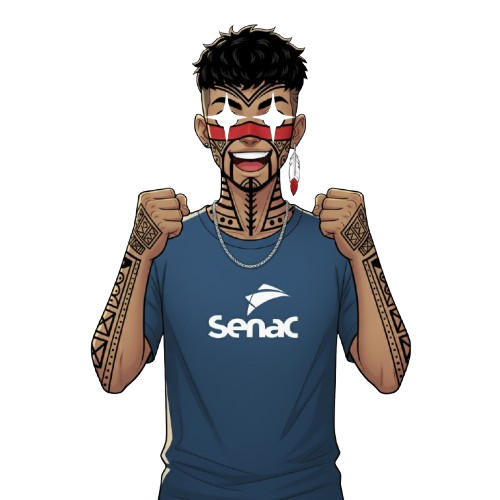
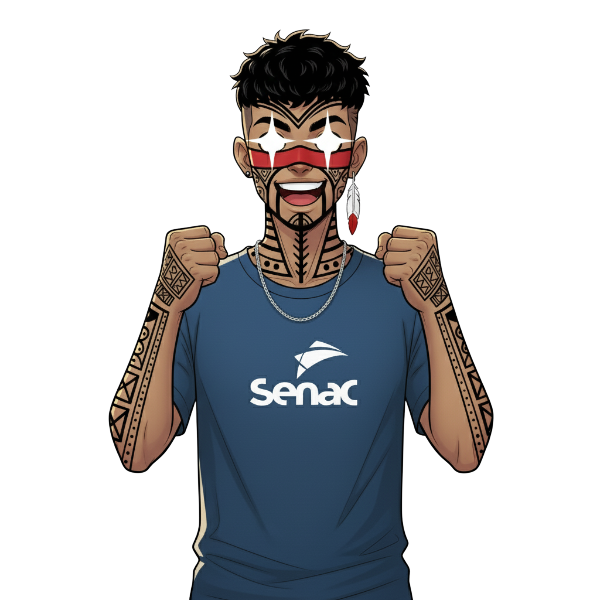
nova adição na landpage

diff --git a/src/styles/landpage.css b/src/styles/landpage.css
@@ -362,6 +362,7 @@
   text-align: center;
   position: relative;
   padding-bottom: 400px; /* space for img */
+  overflow: hidden; /* to contain the slideshow */
 }
 
 .landpage-wrapper .gamificacao-card:hover {
@@ -369,30 +370,112 @@
   box-shadow: 0 15px 50px rgba(0, 0, 0, 0.15);
 }
 
-.landpage-wrapper .gamificacao-icon {
-  width: 80px;
-  height: 80px;
-  background: linear-gradient(135deg, var(--landpage-blue) 0%, var(--landpage-yellow) 100%);
-  border-radius: 50%;
-  margin: 0 auto 20px;
-  display: flex;
-  align-items: center;
-  justify-content: center;
-  font-size: 32px;
+.landpage-wrapper .gamificacao-avatar-slideshow {
+  position: absolute;
+  top: 0;
+  left: 0;
+  width: 100%;
+  height: 100%;
+  z-index: 1;
+  border-radius: 16px;
+}
+
+.landpage-wrapper .gamificacao-avatar-slide {
+  position: absolute;
+  top: 0;
+  left: 0;
+  width: 100%;
+  height: 100%;
+  object-fit: cover;
+  border-radius: 16px;
+  opacity: 0;
+  transition: opacity 1s ease-in-out;
+}
+
+.landpage-wrapper .gamificacao-avatar-slide.active {
+  opacity: 1;
+}
+
+.landpage-wrapper .gamificacao-quiz-slideshow {
+  position: absolute;
+  top: 0;
+  left: 0;
+  width: 100%;
+  height: 100%;
+  z-index: 1;
+  border-radius: 16px;
+}
+
+.landpage-wrapper .gamificacao-quiz-slide {
+  position: absolute;
+  top: 0;
+  left: 0;
+  width: 100%;
+  height: 100%;
+  object-fit: contain;
+  border-radius: 16px;
+  opacity: 0;
+  transition: opacity 1s ease-in-out;
+}
+
+.landpage-wrapper .gamificacao-quiz-slide.active {
+  opacity: 1;
+}
+
+/* Comunidade Slideshow */
+.landpage-wrapper .gamificacao-comunidade-slideshow {
+  position: absolute;
+  top: 0;
+  left: 0;
+  width: 100%;
+  height: 100%;
+  z-index: 1;
+  border-radius: 16px;
+  overflow: hidden;
+}
+
+.landpage-wrapper .gamificacao-comunidade-slide {
+  position: absolute;
+  top: 0;
+  left: 0;
+  width: 100%;
+  height: 100%;
+  object-fit: contain;
+  opacity: 0;
+  transition: opacity 0.5s ease-in-out;
+  border-radius: 16px;
+}
+
+.landpage-wrapper .gamificacao-comunidade-slide.active {
+  opacity: 1;
+}
+
+.landpage-wrapper .gamificacao-card h3,
+.landpage-wrapper .gamificacao-card p {
+  position: relative;
+  z-index: 2;
   color: white;
+  text-shadow: 0 2px 4px rgba(0, 0, 0, 0.7);
 }
 
 .landpage-wrapper .gamificacao-card h3 {
   font-size: 24px;
   font-weight: 700;
   margin-bottom: 15px;
-  color: var(--landpage-text-dark);
+  background: rgba(0, 0, 0, 0.5);
+  padding: 10px 15px;
+  border-radius: 8px;
+  display: inline-block;
 }
 
 .landpage-wrapper .gamificacao-card p {
   font-size: 16px;
   line-height: 1.6;
-  color: var(--landpage-text-light);
+  background: rgba(0, 0, 0, 0.4);
+  padding: 15px;
+  border-radius: 8px;
+  display: inline-block;
+  margin-bottom: 20px;
 }
 
 .landpage-wrapper .gamificacao-character {
@@ -406,6 +489,7 @@
   border-radius: 12px;
   filter: drop-shadow(0 0 20px rgba(248, 180, 0, 0.5));
   transition: filter 0.3s ease;
+  z-index: 3;
 }
 
 .landpage-wrapper .gamificacao-character:hover {
@@ -554,20 +638,52 @@
   .landpage-wrapper .gamificacao-card {
     padding: 30px 20px 0;
     padding-bottom: 350px;
+    overflow: hidden;
   }
 
-  .landpage-wrapper .gamificacao-character {
-    max-width: 1000px;
+  .landpage-wrapper .gamificacao-avatar-slideshow {
+    position: absolute;
+    top: 0;
+    left: 0;
+    width: 100%;
+    height: 100%;
+    z-index: 1;
+    border-radius: 16px;
   }
 
-  .landpage-wrapper .gamificacao-icon {
-    width: 60px;
-    height: 60px;
-    font-size: 24px;
+  .landpage-wrapper .gamificacao-card h3,
+  .landpage-wrapper .gamificacao-card p {
+    position: relative;
+    z-index: 2;
+    color: white;
+    text-shadow: 0 2px 4px rgba(0, 0, 0, 0.7);
   }
 
   .landpage-wrapper .gamificacao-card h3 {
     font-size: 20px;
+    background: rgba(0, 0, 0, 0.5);
+    padding: 8px 12px;
+    border-radius: 6px;
+    display: inline-block;
+    margin-bottom: 10px;
+  }
+
+  .landpage-wrapper .gamificacao-card p {
+    font-size: 14px;
+    background: rgba(0, 0, 0, 0.4);
+    padding: 10px;
+    border-radius: 6px;
+    display: inline-block;
+  }
+
+  .landpage-wrapper .gamificacao-quiz-slideshow {
+    position: absolute;
+    top: 0;
+    left: 0;
+    width: 100%;
+    height: 100%;
+    z-index: 1;
+    border-radius: 16px;
   }
 
   .landpage-wrapper .gamificacao-cta {
@@ -644,20 +760,52 @@
   .landpage-wrapper .gamificacao-card {
     padding: 20px 15px 0;
     padding-bottom: 300px;
+    overflow: hidden;
   }
 
-  .landpage-wrapper .gamificacao-character {
-    max-width: 750px;
+  .landpage-wrapper .gamificacao-avatar-slideshow {
+    position: absolute;
+    top: 0;
+    left: 0;
+    width: 100%;
+    height: 100%;
+    z-index: 1;
+    border-radius: 16px;
   }
 
-  .landpage-wrapper .gamificacao-icon {
-    width: 50px;
-    height: 50px;
-    font-size: 20px;
+  .landpage-wrapper .gamificacao-card h3,
+  .landpage-wrapper .gamificacao-card p {
+    position: relative;
+    z-index: 2;
+    color: white;
+    text-shadow: 0 2px 4px rgba(0, 0, 0, 0.7);
   }
 
   .landpage-wrapper .gamificacao-card h3 {
     font-size: 18px;
+    background: rgba(0, 0, 0, 0.5);
+    padding: 6px 10px;
+    border-radius: 4px;
+    display: inline-block;
+    margin-bottom: 8px;
+  }
+
+  .landpage-wrapper .gamificacao-card p {
+    font-size: 12px;
+    background: rgba(0, 0, 0, 0.4);
+    padding: 8px;
+    border-radius: 4px;
+    display: inline-block;
+  }
+
+  .landpage-wrapper .gamificacao-quiz-slideshow {
+    position: absolute;
+    top: 0;
+    left: 0;
+    width: 100%;
+    height: 100%;
+    z-index: 1;
+    border-radius: 16px;
   }
 
   .landpage-wrapper .gamificacao-cta {
@@ -675,7 +823,8 @@
   }
 
   .landpage-wrapper .gamificacao-character {
-    max-width: 750px;
+    max-width: 1000px;
+    z-index: 3;
   }
 
   .landpage-wrapper .causa-rectangle {

diff --git a/src/pages/landpage.tsx b/src/pages/landpage.tsx
@@ -9,6 +9,9 @@ const Index: React.FC = () => {
   const [currentSlide, setCurrentSlide] = useState(0);
   const [modalOpen, setModalOpen] = useState<number | null>(null);
   const [currentUniversidadeImage, setCurrentUniversidadeImage] = useState(0);
+  const [currentAvatarImage, setCurrentAvatarImage] = useState(0);
+  const [currentQuizImage, setCurrentQuizImage] = useState(0);
+  const [currentComunidadeImage, setCurrentComunidadeImage] = useState(0);
 
   const slides = Array.from({ length: 9 }, (_, i) => i);
   const slideRefs = useRef<(HTMLDivElement | null)[]>([]);
@@ -36,6 +39,30 @@ const Index: React.FC = () => {
     }, 4000);
     return () => clearInterval(interval);
   }, [universidadeImages.length]);
+
+  // Autoplay avatar images
+  useEffect(() => {
+    const interval = setInterval(() => {
+      setCurrentAvatarImage(prev => (prev + 1) % 5); // 0 to 4
+    }, 3000);
+    return () => clearInterval(interval);
+  }, []);
+
+  // Autoplay quiz images
+  useEffect(() => {
+    const interval = setInterval(() => {
+      setCurrentQuizImage(prev => (prev + 1) % 3); // 0 to 2
+    }, 3000);
+    return () => clearInterval(interval);
+  }, []);
+
+  // Autoplay comunidade images
+  useEffect(() => {
+    const interval = setInterval(() => {
+      setCurrentComunidadeImage(prev => (prev + 1) % 4); // 0 to 3
+    }, 3000);
+    return () => clearInterval(interval);
+  }, []);
 
   // Text truncation
   useEffect(() => {
@@ -280,19 +307,58 @@ Empoderamento: Fortalecer identidades e estimular protagonismo individual e cole
             </p>
             <div className="gamificacao-grid">
               <div className="gamificacao-card">
-                <div className="gamificacao-icon"></div>
+                <div className="gamificacao-avatar-slideshow">
+                  {[0, 1, 2, 3, 4].map((index) => (
+                    <img
+                      key={index}
+                      src={`/landpage/gami/avatar_${index}.PNG`}
+                      alt={`Avatar ${index}`}
+                      className={`gamificacao-avatar-slide ${index === currentAvatarImage ? 'active' : ''}`}
+                      onError={(e) => {
+                        console.log(`Imagem não encontrada: /landpage/gami/avatar_${index}.PNG`);
+                        e.currentTarget.style.display = 'none';
+                      }}
+                    />
+                  ))}
+                </div>
                 <h3>Crie seu Avatar</h3>
                 <p>Crie seu Avatar na gamificação, do seu jeito da forma como você se enxerga!</p>
                 <img src="/landpage/characters/avatar.png" alt="Avatar" className="gamificacao-character" />
               </div>
               <div className="gamificacao-card">
-                <div className="gamificacao-icon"></div>
+                <div className="gamificacao-quiz-slideshow">
+                  {[0, 1, 2].map((index) => (
+                    <img
+                      key={index}
+                      src={`/landpage/gami/Quiz_${index}.PNG`}
+                      alt={`Quiz ${index}`}
+                      className={`gamificacao-quiz-slide ${index === currentQuizImage ? 'active' : ''}`}
+                      onError={(e) => {
+                        console.log(`Imagem não encontrada: /landpage/gami/Quiz_${index}.PNG`);
+                        e.currentTarget.style.display = 'none';
+                      }}
+                    />
+                  ))}
+                </div>
                 <h3>Quiz</h3>
                 <p>Participe do quiz da comunidade! Aprenda como combater o racismo e lidar com situações.</p>
                 <img src="/landpage/characters/Quiz.png" alt="Quiz" className="gamificacao-character" />
               </div>
               <div className="gamificacao-card">
-                <div className="gamificacao-icon"></div>
+                <div className="gamificacao-comunidade-slideshow">
+                  {[0, 1, 2, 3].map((index) => (
+                    <img
+                      key={index}
+                      src={`/landpage/gami/comunidade_${index}.PNG`}
+                      alt={`Comunidade ${index}`}
+                      className={`gamificacao-comunidade-slide ${index === currentComunidadeImage ? 'active' : ''}`}
+                      onError={(e) => {
+                        console.log(`Imagem não encontrada: /landpage/gami/comunidade_${index}.PNG`);
+                        e.currentTarget.style.display = 'none';
+                      }}
+                    />
+                  ))}
+                </div>
                 <h3>Comunidade</h3>
                 <p>Acesse nossa comunidade, compartilhe sua historia e o que achou do nosso projeto e evento!</p>
                 <img src="/landpage/characters/comunidade.png" alt="Comunidade" className="gamificacao-character" />
